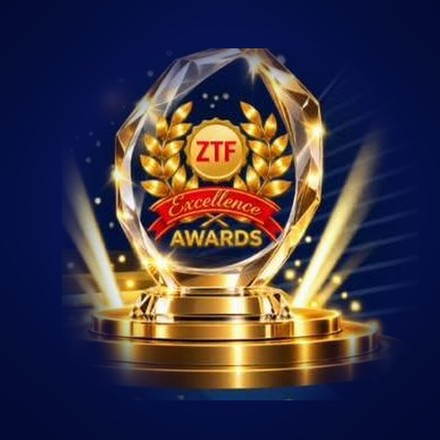
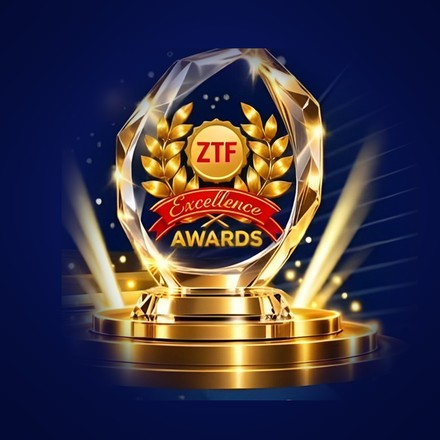
Médaillon du prix refait depuis l'affiche agrandie (source la plus nette)
Trophée repéré par appariement SIFT dans l'affiche française agrandie par
Real-ESRGAN et dans l'affiche anglaise (flyer/IMG-20261109-WA0001.jpg,
agrandie elle aussi) : la française est la plus nette à échelle égale
(variance du laplacien 1671 contre 1272). scripts/medaille-prix.py lit
désormais site/img/affiche-gala-2x.jpg ; même cadrage et même centrage.

Claude-Session: https://claude.ai/code/session_01McbipxuU5nPCsWqp91hPYk

diff --git a/scripts/medaille-prix.py b/scripts/medaille-prix.py
@@ -2,13 +2,15 @@
 # Usage (depuis la racine du dépôt, Python + Pillow) : python3 scripts/medaille-prix.py apercu.png
 from PIL import Image, ImageDraw, ImageFilter
 import sys
-src = Image.open("maquettes/affiche/img/trophee.jpg").convert("RGB")
+# Source la plus nette : le trophée de l'affiche agrandie par Real-ESRGAN (zone repérée par appariement SIFT,
+# même cadrage que maquettes/affiche/img/trophee.jpg, à l'échelle ×2).
+src = Image.open("site/img/affiche-gala-2x.jpg").convert("RGB").crop((1178, 1678, 1808, 2300))
 N = 600
 bg = Image.new("RGB", (N, N), (3, 10, 51)); glow = Image.new("L", (N, N), 0)
 ImageDraw.Draw(glow).ellipse([60, 40, N - 60, N - 80], fill=255); glow = glow.filter(ImageFilter.GaussianBlur(90))
 bg.paste(Image.new("RGB", (N, N), (11, 26, 107)), (0, 0), glow)
 h = int(N * 0.8); w = int(src.width * h / src.height); t = src.resize((w, h), Image.LANCZOS)
-axis = 139 / src.width * w                      # axe vertical du trophée (x = 139 px sur 314)
+axis = 139 / 314 * w                            # axe vertical du trophée (x = 139 px sur 314 dans le cadrage d'origine)
 x = int(N / 2 - axis); y = int((N - h) / 2) + 6
 mask = Image.new("L", (w, h), 0)
 ImageDraw.Draw(mask).ellipse([int(w * .05), int(h * .02), int(w * .95), int(h * 1.02)], fill=255)

diff --git a/maquettes/ecoles/img/SOURCES.md b/maquettes/ecoles/img/SOURCES.md
@@ -19,4 +19,4 @@ Toutes les photos viennent de Wikimedia Commons et sont sous licence **CC BY-SA 
 
 | Fichier | Contenu | Source |
 |---|---|---|
-| `prix-provisoire.jpg` | Trophée « ZTF Excellence Awards » ; sur /enspy (`site/img/ecoles/`), le trophée entier centré sur fond bleu nuit, fabriqué par `scripts/medaille-prix.py` | Découpé dans le flyer de la Fondation (`maquettes/affiche/img/trophee.jpg`). À remplacer par le logo officiel du prix dès qu'il sera fourni. |
+| `prix-provisoire.jpg` | Trophée « ZTF Excellence Awards » ; sur /enspy (`site/img/ecoles/`), le trophée entier centré sur fond bleu nuit, fabriqué par `scripts/medaille-prix.py` à partir de l'affiche agrandie par Real-ESRGAN (`site/img/affiche-gala-2x.jpg`), plus nette que l'affiche anglaise pour cette zone | Découpé dans le flyer de la Fondation (`maquettes/affiche/img/trophee.jpg`). À remplacer par le logo officiel du prix dès qu'il sera fourni. |
